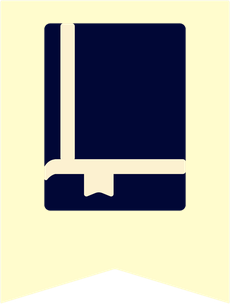
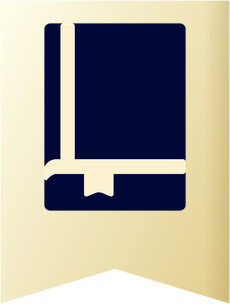
font-style

Changed region(s): [[0.2435, 0.0, 1.0, 1.0], [0.0, 0.0, 0.1217, 0.1776]]

diff --git a/client/app/main_window.py b/client/app/main_window.py
@@ -1,6 +1,6 @@
 from PySide6.QtCore import QDateTime, QSize, Qt, QTimer, Signal
-from PySide6.QtGui import QIcon, QPixmap
-from PySide6.QtWidgets import QApplication
+from PySide6.QtGui import QColor, QIcon, QPixmap
+from PySide6.QtWidgets import QApplication, QGraphicsDropShadowEffect, QPushButton
 from PySide6.QtWidgets import (QFrame, QHBoxLayout, QLabel, QListWidget, QListWidgetItem, QMainWindow, QStackedWidget,
                                QVBoxLayout, QWidget)
 from . import style
@@ -42,8 +42,8 @@ class MainWindow(QMainWindow):
         self.api = api
         self.setWindowTitle(f"{APP_NAME} — {INSTITUTION}"); self.resize(1280, 820)
         root = QWidget(); self.setCentralWidget(root); outer = QVBoxLayout(root); outer.setContentsMargins(0, 0, 0, 0); outer.setSpacing(0)
-        header = QFrame(); header.setObjectName("header"); header.setFixedHeight(88)
-        hl = QHBoxLayout(header); hl.setContentsMargins(140, 0, 20, 0); hl.setSpacing(10)
+        header = QFrame(); header.setObjectName("header"); header.setFixedHeight(86)
+        hl = QHBoxLayout(header); hl.setContentsMargins(128, 0, 31, 0); hl.setSpacing(3)
         t = QLabel(f"<b>{APP_NAME} - {TAGLINE}</b>"); t.setStyleSheet("font-size: 12.5pt;")
         sub = QLabel(f"<b>{INSTITUTION}</b>")
         left = QVBoxLayout(); left.setSpacing(2); left.addWidget(t); left.addWidget(sub)
@@ -51,25 +51,30 @@ class MainWindow(QMainWindow):
         u = api.user
         self.guest = u["role"] == "GUEST"
         who = "Guest visitor - browse and search only" if self.guest else f"{u['full_name']} - {u['role'].replace('_', ' ').title()}"
-        hl.addWidget(QLabel(who))
+        who_lbl = QLabel(who); who_lbl.setContentsMargins(0, 0, 8, 0); hl.addWidget(who_lbl)
         self.bell = button("0", slot=self.open_notifications); self.bell.setToolTip("Notifications")
-        self.bell.setIcon(QIcon(res("bell.svg"))); self.bell.setIconSize(QSize(20, 20)); hl.addWidget(self.bell)
-        self.theme_btn = button(style.theme_button_text(), slot=self.toggle_theme); self.theme_btn.setToolTip("Switch light / dark mode"); hl.addWidget(self.theme_btn)
+        self.bell.setIcon(QIcon(res("bell.svg"))); self.bell.setIconSize(QSize(18, 18)); self.bell.setFixedHeight(32); hl.addWidget(self.bell)
+        self.theme_btn = button("", slot=self.toggle_theme); self.theme_btn.setToolTip("Switch light / dark mode"); self.theme_btn.setIconSize(QSize(18, 18))
+        self.theme_btn.setFixedSize(32, 32); self._theme_icon(); hl.addWidget(self.theme_btn)
         if self.guest:
             self.bell.hide()
             hl.addWidget(button("Create student account", slot=self.register))
             hl.addWidget(button("Sign in", slot=self.sign_in_requested.emit))
         else:
-            hl.addWidget(button("Log out", slot=lambda: self.logout()))
+            lo = button("Log out", slot=lambda: self.logout()); lo.setFixedHeight(32); hl.addWidget(lo)
+        for i in range(hl.count()):
+            w_ = hl.itemAt(i).widget()
+            if isinstance(w_, QPushButton): w_.setFixedHeight(32)
+        hl.addSpacing(24)
         self.seal = QLabel(); spm = QPixmap(res("seal.png"))
         if not spm.isNull():
-            self.seal.setPixmap(spm.scaled(70, 70, Qt.KeepAspectRatio, Qt.SmoothTransformation)); hl.addWidget(self.seal)
+            self.seal.setPixmap(spm.scaled(69, 69, Qt.KeepAspectRatio, Qt.SmoothTransformation)); hl.addWidget(self.seal)
         outer.addWidget(header)
         body = QHBoxLayout(); body.setSpacing(0); outer.addLayout(body, 1)
-        side = QFrame(); side.setObjectName("sidebar"); side.setFixedWidth(255); sl = QVBoxLayout(side); sl.setContentsMargins(0, 58, 0, 8)
+        side = QFrame(); side.setObjectName("sidebar"); side.setFixedWidth(255); sl = QVBoxLayout(side); sl.setContentsMargins(0, 42, 0, 8)
         self.nav = QListWidget(); self.nav.setObjectName("nav"); sl.addWidget(self.nav); body.addWidget(side)
         content = QWidget(); content.setObjectName("content"); right = QVBoxLayout(content); right.setContentsMargins(0, 0, 0, 0); body.addWidget(content, 1)
-        self.crumb = muted(""); self.crumb.setContentsMargins(28, 12, 20, 0); right.addWidget(self.crumb)
+        self.crumb = muted(""); self.crumb.setContentsMargins(32, 14, 20, 0); right.addWidget(self.crumb)
         self.stack = QStackedWidget(); right.addWidget(self.stack, 1)
         self.clock = QLabel(""); self.clock.setObjectName("clock"); self.clock.setAlignment(Qt.AlignRight); self.clock.setContentsMargins(0, 0, 20, 8); right.addWidget(self.clock)
         self.items = _nav(u["role"], api); self.pages = {}
@@ -80,7 +85,8 @@ class MainWindow(QMainWindow):
         if pm.isNull():
             self.ribbon.hide()
         else:
-            self.ribbon.setPixmap(pm.scaled(80, 106, Qt.KeepAspectRatio, Qt.SmoothTransformation)); self.ribbon.adjustSize(); self.ribbon.move(40, 0); self.ribbon.raise_()
+            self.ribbon.setPixmap(pm.scaled(66, 85, Qt.KeepAspectRatio, Qt.SmoothTransformation)); self.ribbon.adjustSize(); self.ribbon.move(33, 0); self.ribbon.raise_()
+            sh = QGraphicsDropShadowEffect(self.ribbon); sh.setBlurRadius(10); sh.setOffset(0, 2); sh.setColor(QColor(0, 0, 0, 110)); self.ribbon.setGraphicsEffect(sh)
         self.nav.setCurrentRow(0)
         self.timer = QTimer(self); self.timer.setInterval(60_000); self.timer.timeout.connect(self.poll); self.timer.start(); self.poll()
         self.tick = QTimer(self); self.tick.setInterval(1000); self.tick.timeout.connect(self._clock); self.tick.start(); self._clock()
@@ -125,7 +131,10 @@ class MainWindow(QMainWindow):
     def set_unread(self, n): self.bell.setText(str(n))
 
     def toggle_theme(self):
-        style.toggle_theme(QApplication.instance()); self.theme_btn.setText(style.theme_button_text())
+        style.toggle_theme(QApplication.instance()); self._theme_icon()
+
+    def _theme_icon(self):
+        self.theme_btn.setIcon(QIcon(res("sun.svg" if style.current_theme() == "dark" else "moon.svg")))
 
     def register(self):
         from .dialogs.register_dialog import RegisterDialog

diff --git a/client/app/widgets.py b/client/app/widgets.py
@@ -1,4 +1,5 @@
 from PySide6.QtCore import Qt, Signal
+from PySide6.QtGui import QColor
 from PySide6.QtWidgets import (QAbstractItemView, QFrame, QGraphicsDropShadowEffect, QHBoxLayout, QLabel, QMessageBox, QPushButton, QTableWidget,
                                QTableWidgetItem, QVBoxLayout, QWidget)
 from .api import ApiError
@@ -99,7 +100,7 @@ class Page(QWidget):
         self.setObjectName("page")
         self.api, self.main = api, main
         self.root = QVBoxLayout(self)
-        self.root.setContentsMargins(20, 16, 20, 16)
+        self.root.setContentsMargins(32, 14, 32, 16)
 
     def refresh(self) -> None:
         pass
@@ -111,12 +112,12 @@ class StatCard(QFrame):
 
     def __init__(self, title: str, value, clickable: bool = True):
         super().__init__()
-        self.setObjectName("statcard"); self.setMinimumHeight(100); self.clickable = clickable
-        lay = QVBoxLayout(self); lay.setContentsMargins(18, 12, 18, 12)
-        v = QLabel(str(value)); v.setStyleSheet("font-size: 24pt;")
+        self.setObjectName("statcard"); self.setFixedHeight(67); self.clickable = clickable
+        lay = QVBoxLayout(self); lay.setContentsMargins(14, 6, 14, 6); lay.setSpacing(0)
+        v = QLabel(str(value)); v.setStyleSheet("font-size: 17pt;")
         t = QLabel(title); t.setObjectName("muted"); t.setWordWrap(True)
         lay.addWidget(v); lay.addWidget(t)
-        sh = QGraphicsDropShadowEffect(self); sh.setBlurRadius(18); sh.setOffset(0, 4); sh.setColor(Qt.GlobalColor.gray)
+        sh = QGraphicsDropShadowEffect(self); sh.setBlurRadius(14); sh.setOffset(0, 3); sh.setColor(QColor(15, 40, 84, 70))
         self.setGraphicsEffect(sh)
         if clickable:
             self.setCursor(Qt.PointingHandCursor); self.setFocusPolicy(Qt.StrongFocus); self.setToolTip("Click to open")

diff --git a/server/tests/test_override_offline.py b/server/tests/test_override_offline.py
@@ -118,3 +118,24 @@ def test_admin_override_rejects_non_review_statuses_and_stale_version(client):
     assert _override(client, wid, "archive").json()["status"] == "ARCHIVED"
     assert _override(client, wid, "archive").status_code == 409          # already archived
     assert _override(client, wid, "bogus").status_code in (409, 422)
+
+
+# ---------------- admin renames a username ----------------
+def test_admin_can_change_username(client):
+    ah = login(client, "admin")
+    uid = next(u["user_id"] for u in client.get("/users?q=student1", headers=ah).json()["items"] if u["username"] == "student1")
+    old_h = login(client, "student1")
+    assert client.patch(f"/users/{uid}", headers=ah, json={"username": "student1.new"}).status_code == 200
+    assert client.post("/auth/login", json={"username": "student1", "password": DEMO_PASSWORD}).status_code in (401, 403)
+    assert client.get("/auth/me", headers=old_h).status_code == 401           # old session was revoked
+    login(client, "student1.new")
+    assert "USERNAME_CHANGED" in _actions(client)
+
+
+def test_username_change_rejects_duplicates_and_non_admin(client):
+    ah = login(client, "admin")
+    uid = next(u["user_id"] for u in client.get("/users?q=student1", headers=ah).json()["items"] if u["username"] == "student1")
+    assert client.patch(f"/users/{uid}", headers=ah, json={"username": "student2"}).status_code == 409
+    assert client.patch(f"/users/{uid}", headers=ah, json={"username": "ab"}).status_code == 422
+    assert client.patch(f"/users/{uid}", headers=ah, json={"username": "bad name!"}).status_code == 422
+    assert client.patch(f"/users/{uid}", headers=login(client, "student2"), json={"username": "hacker"}).status_code == 403

diff --git a/client/app/style.py b/client/app/style.py
@@ -25,18 +25,19 @@ QDialog, QMessageBox {{ background: {t['dialog']}; }}
 QWidget#login {{ background: {t['dialog']}; }}
 QWidget#page {{ background: transparent; }}
 QWidget#content {{ background: {t['bg']}; }}
-QLabel#h1 {{ font-size: 22pt; font-weight: 400; color: {t['text']}; }}
+QLabel#h1 {{ font-size: 19pt; font-weight: 400; color: {t['text']}; }}
+QLabel#wordmark {{ font-size: 23pt; font-weight: 700; color: {t['text']}; }}
 QLabel#h2 {{ font-size: 12pt; font-weight: 600; color: {t['text']}; }}
 QLabel#muted {{ color: {t['muted']}; }}
 QLabel#error {{ color: {t['danger']}; }}
 QLabel#clock {{ color: {t['muted']}; font-size: 9pt; }}
 QFrame#header {{ background: {t['header']}; border-bottom-left-radius: 22px; border-bottom-right-radius: 22px; }}
 QFrame#header QLabel {{ color: #FFFFFF; }}
-QFrame#header QPushButton {{ background: #FFFFFF; color: #0F2854; border: none; border-radius: 8px; padding: 8px 14px; }}
+QFrame#header QPushButton {{ background: #FFFFFF; color: #0F2854; border: none; border-radius: 6px; padding: 4px 10px; }}
 QFrame#header QPushButton:hover {{ background: #E6ECF8; }}
 QFrame#sidebar {{ background: {t['panel']}; border: none; }}
 QListWidget#nav {{ background: transparent; border: none; font-size: 11.5pt; outline: 0; }}
-QListWidget#nav::item {{ padding: 11px 16px; color: {t['text']}; border-radius: 6px; margin: 1px 6px; }}
+QListWidget#nav::item {{ padding: 7px 20px; color: {t['text']}; border-radius: 8px; margin: 0; }}
 QListWidget#nav::item:selected {{ background: {t['bg']}; color: {t['text']}; }}
 QListWidget#nav::item:hover {{ background: {t['nav_hover']}; }}
 QFrame#card, QFrame#statcard {{ background: {t['panel']}; border: none; border-radius: 8px; }}

diff --git a/client/app/dialogs/user_dialog.py b/client/app/dialogs/user_dialog.py
@@ -26,15 +26,16 @@ class UserDialog(QDialog):
         for d in lk["departments"]: self.dept.addItem(d["name"], d["id"])
         if self.user:
             u = self.user
-            self.username.setText(u["username"]); self.username.setEnabled(False); self.full_name.setText(u["full_name"])
+            self.username.setText(u["username"]); self.full_name.setText(u["full_name"])
             self.email.setText(u["email"]); self.sn.setText(u["student_number"] or "")
             self.role.setCurrentText(u["role"]); self.dept.setCurrentIndex(max(self.dept.findData(u["department_id"]), 0))
 
     def save(self):
-        body = {"full_name": self.full_name.text().strip(), "email": self.email.text().strip(), "role": self.role.currentText(),
+        body = {"username": self.username.text().strip(), "full_name": self.full_name.text().strip(), "email": self.email.text().strip(), "role": self.role.currentText(),
                 "student_number": self.sn.text().strip() or None, "department_id": self.dept.currentData()}
         def call():
             if self.user:
+                if body["username"] == self.user["username"]: body.pop("username")
                 return self.api.patch(f"/users/{self.user['user_id']}", body)
             return self.api.post("/users", {**body, "username": self.username.text().strip(), "password": self.password.text()})
         def fail(e):

diff --git a/client/app/login.py b/client/app/login.py
@@ -1,5 +1,5 @@
 from PySide6.QtCore import Qt, Signal
-from PySide6.QtGui import QPixmap
+from PySide6.QtGui import QFont, QPixmap
 from PySide6.QtWidgets import QApplication, QFormLayout, QFrame, QHBoxLayout, QLabel, QLineEdit, QVBoxLayout, QWidget
 from . import style
 from .brand import APP_NAME, INSTITUTION, TAGLINE, res
@@ -19,7 +19,9 @@ class LoginWindow(QWidget):
         top = QHBoxLayout(); logo = QLabel(); pm = QPixmap(res("seal.png"))
         if not pm.isNull():
             logo.setPixmap(pm.scaled(64, 64, Qt.KeepAspectRatio, Qt.SmoothTransformation)); top.addWidget(logo)
-        top.addWidget(h1(APP_NAME)); top.addStretch(1)
+        title = QLabel(APP_NAME); title.setObjectName("wordmark")        # bold + condensed (tight letter spacing)
+        f = title.font(); f.setLetterSpacing(QFont.PercentageSpacing, 88); title.setFont(f)
+        top.addWidget(title); top.addStretch(1)
         self.theme_btn = button(style.theme_button_text(), slot=self.toggle_theme); top.addWidget(self.theme_btn)
         lay.addLayout(top)
         lay.addWidget(muted(TAGLINE)); lay.addWidget(muted(INSTITUTION))

diff --git a/server/app/services/admin_service.py b/server/app/services/admin_service.py
@@ -46,6 +46,15 @@ def patch_user(db: Session, actor: User, user_id: int, d: dict) -> User:
         old = u.role.role_name
         u.role_id = _role(db, d["role"]).role_id
         audit(db, actor.user_id, "ROLE_CHANGED", "user", u.user_id, details=f"{old} -> {d['role']}")
+    new_name = (d.get("username") or "").strip()
+    if new_name and new_name != u.username:
+        if db.scalar(select(User).where(func.lower(User.username) == new_name.lower(), User.user_id != u.user_id)):
+            raise Conflict("That username is already taken.")
+        old = u.username
+        u.username = new_name
+        audit(db, actor.user_id, "USERNAME_CHANGED", "user", u.user_id, details=f"{old} -> {new_name}")
+        if u.user_id != actor.user_id:
+            auth_service.revoke_all_sessions(db, u.user_id)       # they must sign in again with the new username
     for f in ("full_name", "email", "student_number", "department_id"):
         if d.get(f) is not None:
             if f == "email" and db.scalar(select(User).where(User.email == d[f], User.user_id != u.user_id)):

diff --git a/client/app/views/pages.py b/client/app/views/pages.py
@@ -55,7 +55,7 @@ class DashboardPage(Page):
             if key == "pending_reviews": return (["Review Queue", "Assigned Reviews", "Pending Approvals", "Archive Approval Queue"], {})
             if key == "reviewed_total": return (["Review History"], {})
             return None
-        g = QGridLayout(); g.setHorizontalSpacing(20); g.setVerticalSpacing(20)
+        g = QGridLayout(); g.setHorizontalSpacing(20); g.setVerticalSpacing(14); g.setContentsMargins(40, 14, 40, 0); g.setAlignment(Qt.AlignTop)
         i = 0
         for k, lbl in labels.items():
             if k not in d: continue

diff --git a/server/app/seed.py b/server/app/seed.py
@@ -15,7 +15,7 @@ from .models import (StudentRoster, Department, Program, ResearchCategory, Resea
 from .services import files_service, index_service
 from .services.submission_service import _apply
 
-DEMO_PASSWORD = "Drass#2026"
+DEMO_PASSWORD = "Drass2026"
 ROLE_DESC = {
     "STUDENT": "Submits research and tracks status", "ADVISER": "Reviews assigned advisee submissions",
     "PANELIST": "Reviews assigned research as panel member", "DEAN": "Departmental approval stage",

diff --git a/server/app/schemas/schemas.py b/server/app/schemas/schemas.py
@@ -66,6 +66,7 @@ class UserCreateIn(BaseModel):
 
 
 class UserPatchIn(BaseModel):
+    username: Optional[str] = Field(None, min_length=3, max_length=64, pattern=r"^[A-Za-z0-9._-]+$")
     role: Optional[str] = None
     full_name: Optional[str] = Field(None, max_length=150)
     email: Optional[str] = Field(None, max_length=150, pattern=r"^[^@\s]+@[^@\s]+\.[^@\s]+$")

diff --git a/docs/DECISIONS.md b/docs/DECISIONS.md
@@ -26,3 +26,4 @@
 | Panel approved offline | When the panel already approved outside the system (e.g. signed letter), the **adviser** (or ADMIN acting on the adviser stage) ticks *panel already approved* on Approve and enters a reference (≥3 chars). No panel assignment or panel review is created; the work goes **directly to the Head Librarian**. Setting `offline_panel_skips_dean` (default `true`) controls this: set to `false` to route to the Dean instead. Recorded in review history (`[PANEL APPROVED OFFLINE – ref: …]`), status history and audit `REVIEW_PANEL_OFFLINE_APPROVED`; student and Head Librarian are notified. Only available with an adviser APPROVE (never on return/reject). The Dean is skipped by default because the request said to direct the work to the Head Librarian — flip the setting if the college wants Dean sign-off too. |
 | Themes | Light and Dark mode (header button, also on the login window); choice stored per computer with Qt `QSettings`. |
 | Demo password | Every demo account uses `Drass2026` (documented in `DEMO_ACCOUNTS.md`). Existing databases keep old hashes until `scripts\reset_demo_passwords.py` is run. Change before real deployment. |
+| Username change | ADMIN can rename any user (Users → Edit). Letters, digits, `.`, `_`, `-`, 3–64 chars, must be unique (case-insensitive). The user's open sessions are revoked so they sign in again with the new name; audit action `USERNAME_CHANGED` records old → new. Records keep pointing at the user by id, so history is unaffected. |
